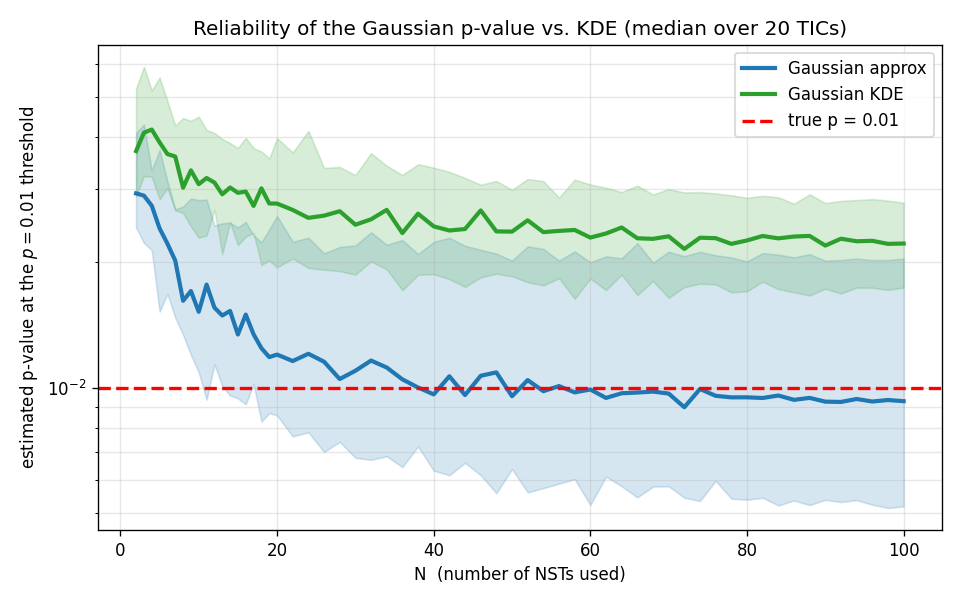
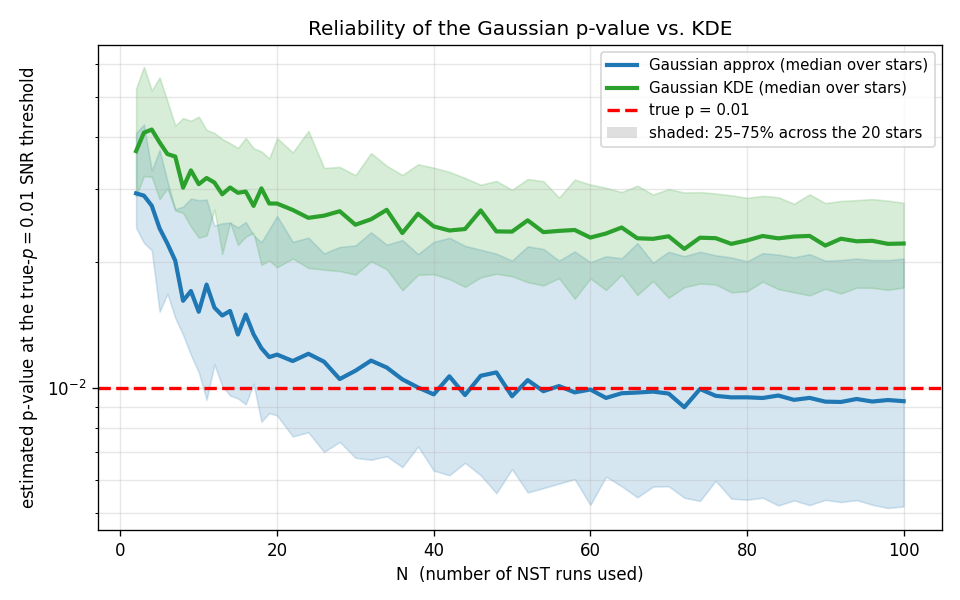
Overview plots: clearer axis labels + explain the shaded bands
- Plot 1 y-axes now read 'mu_null = mean over NSTs of the max SNR' and
  'sigma_null = std over NSTs of the max SNR'; suptitle notes each thin line is
  one of 20 random stars.
- Plot 2 legend + caption explain the shaded bands are the 25-75 percentile
  across the 20 stars (not error bars).

diff --git a/overview.md b/overview.md
@@ -29,8 +29,10 @@ estimate (KDE) of the same samples.
 
 ![Gaussian vs KDE p-value at the p ≈ 0.01 threshold](overview_nst_pvalue.png)
 
-The Gaussian approximation converges to the true $p = 0.01$ (red dashed) by
-$N \approx 40$, whereas the KDE over-estimates the tail by roughly a factor of
-two at these sample sizes (its kernels leak probability past the threshold).
-The per-star null max-SNR distribution is therefore close to Gaussian, and the
-Gaussian p-value is a reliable significance estimate.
+Solid lines are the median across the 20 stars and the shaded bands are the
+25th–75th percentile across them. The Gaussian approximation converges to the
+true $p = 0.01$ (red dashed) by $N \approx 40$, whereas the KDE over-estimates
+the tail by roughly a factor of two at these sample sizes (its kernels leak
+probability past the threshold). The per-star null max-SNR distribution is
+therefore close to Gaussian, and the Gaussian p-value is a reliable significance
+estimate.
